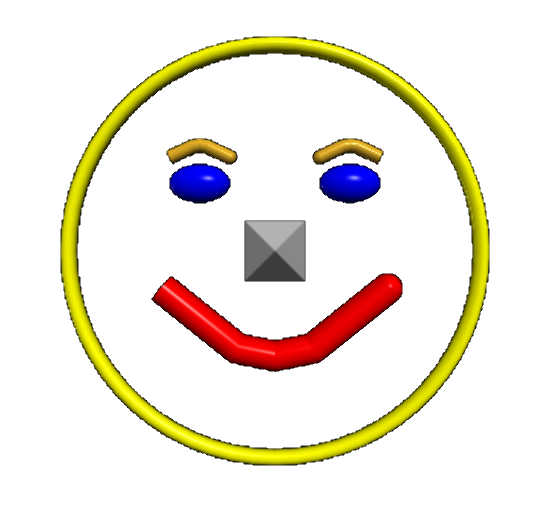
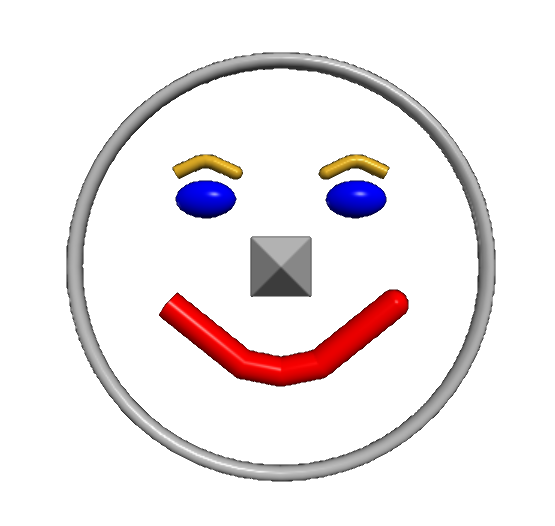
Updated face

diff --git a/fun/code/face.py b/fun/code/face.py
@@ -51,7 +51,7 @@ mouth.append (pos = vec(0.0, -1.4, 0.0))
 mouth.append (pos = vec(0.5, -1.3, 0.0))
 mouth.append (pos = vec(1.5, -0.5, 0.0))
 
-ring(axis=vec(0, 0, 1), size=vec(0.1, 6.5, 6.5), thickness=.1, color=color.yellow)
+ring(axis=vec(0, 0, 1), size=vec(0.1, 6.5, 6.5), thickness=.1, color=color.gray(0.75))
 
 ang = 0.05
 red_component = 0.001
